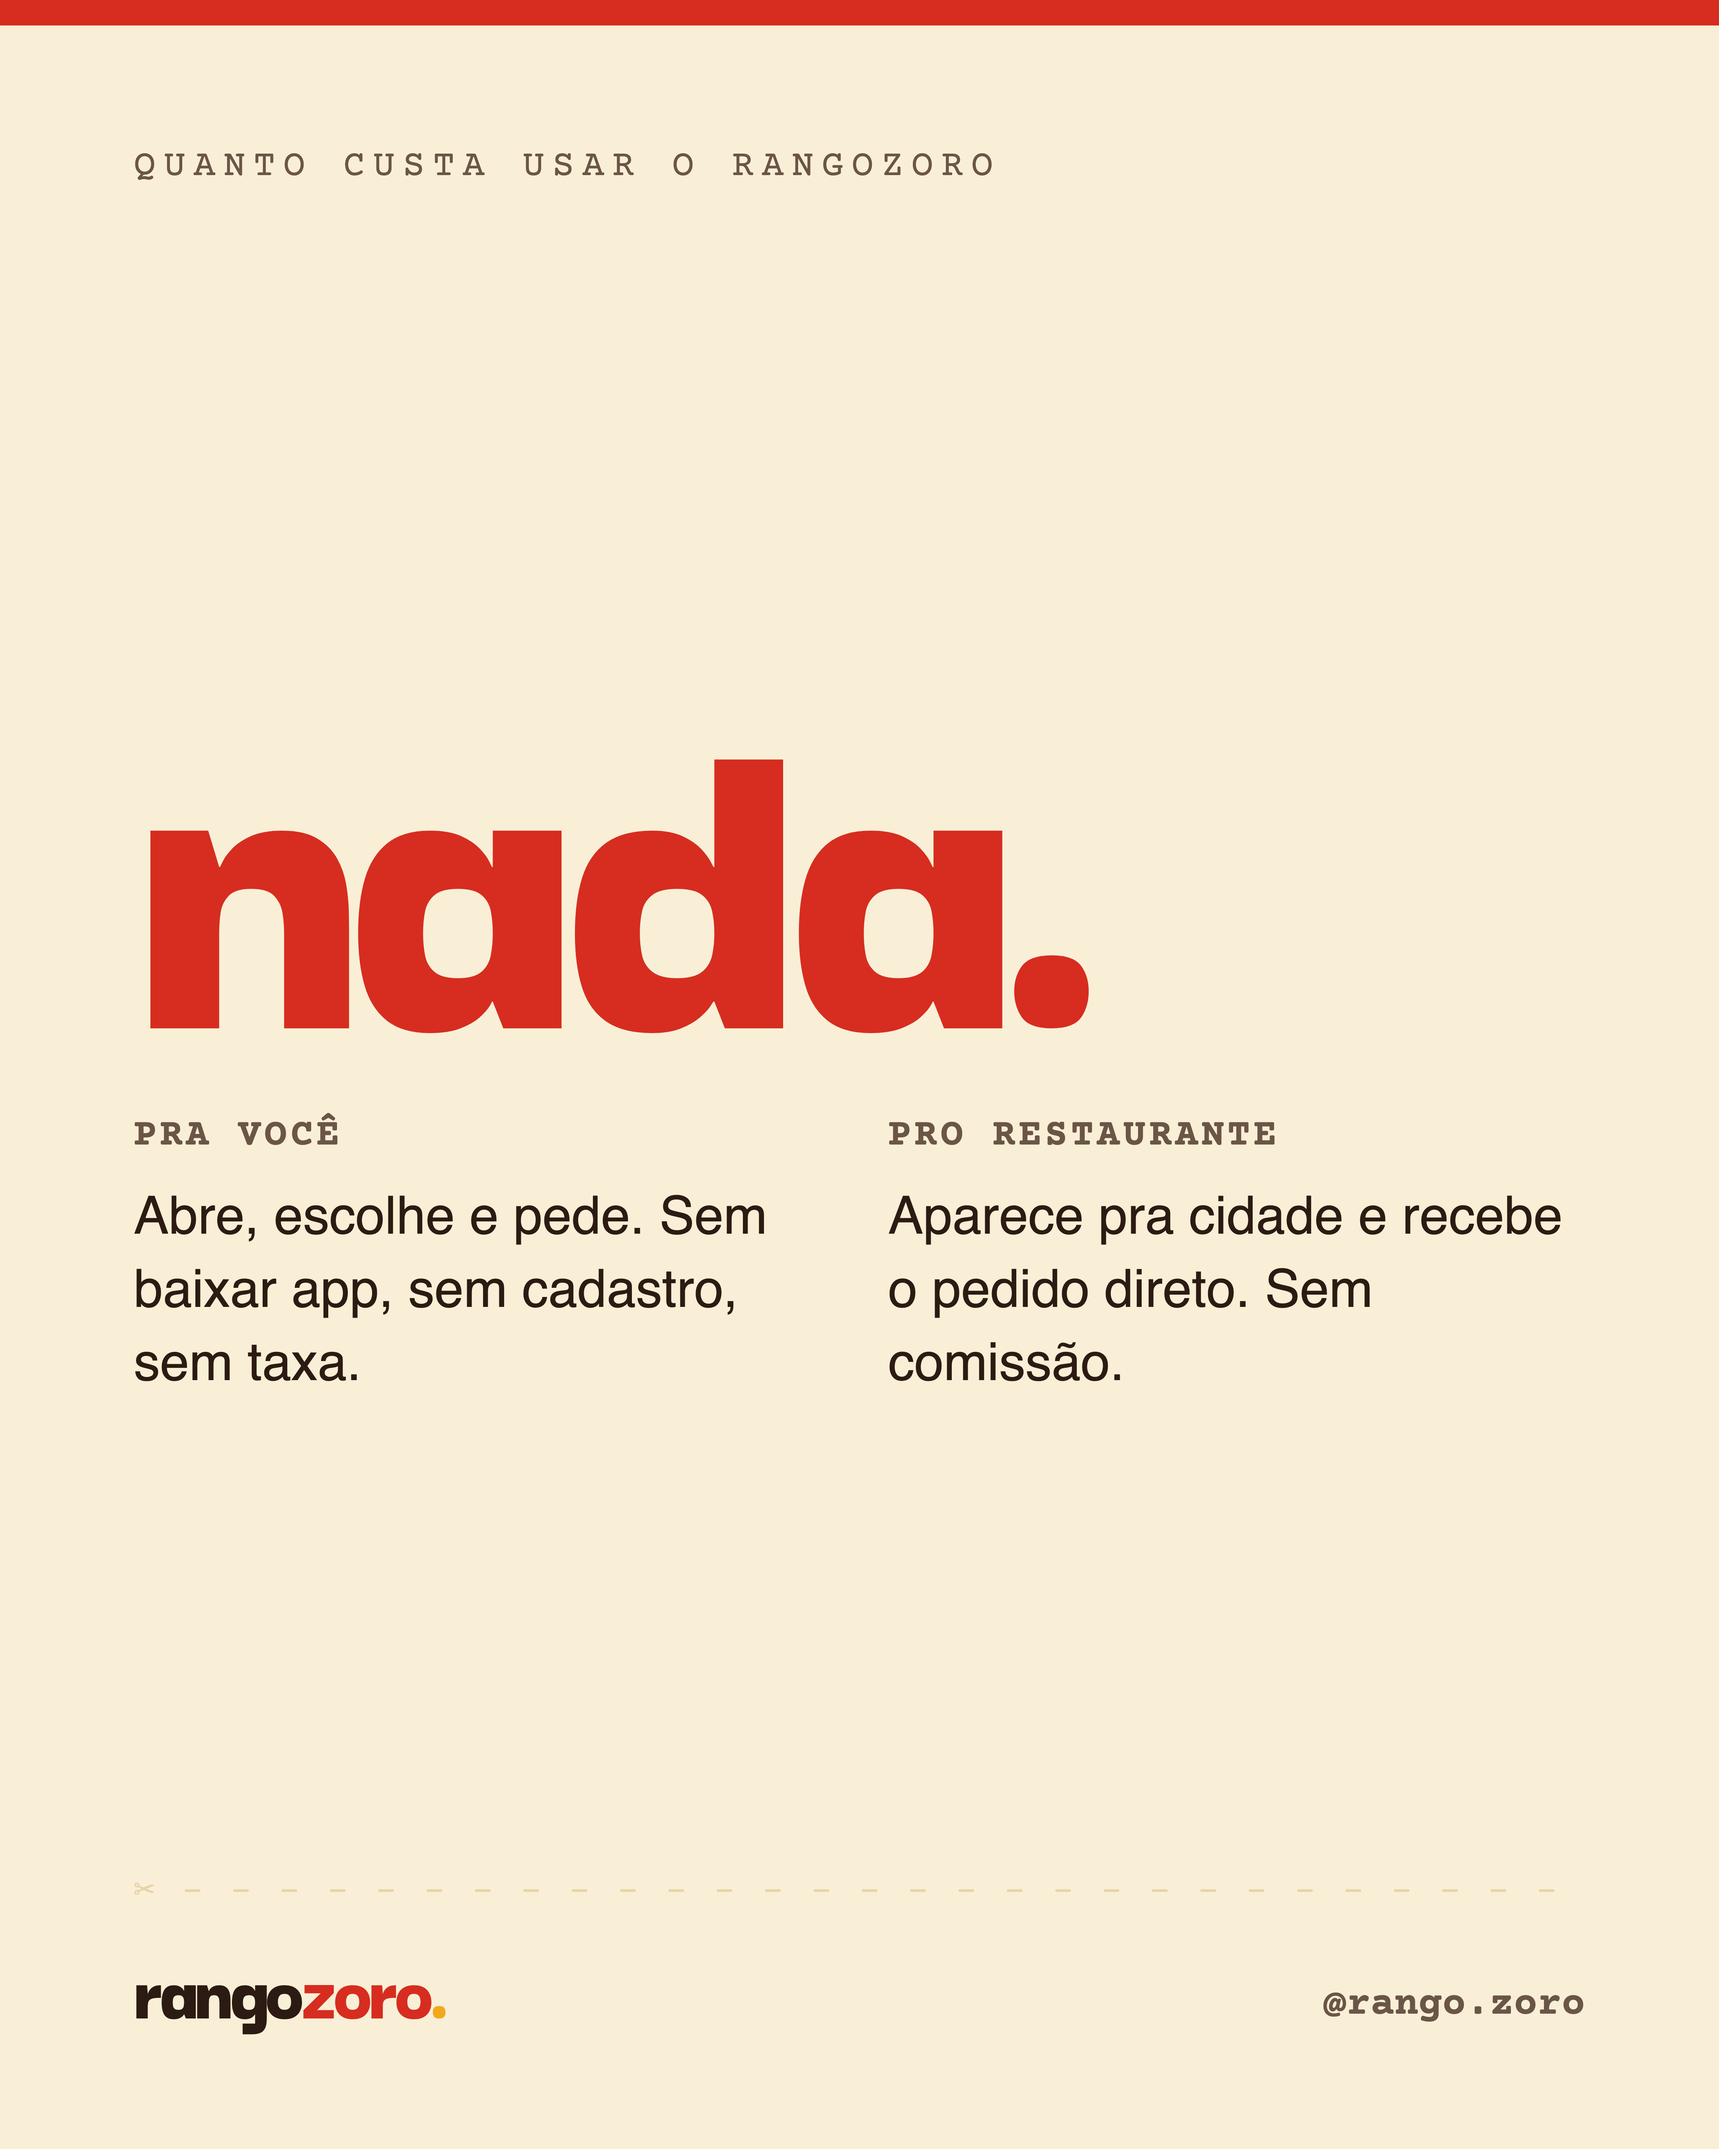
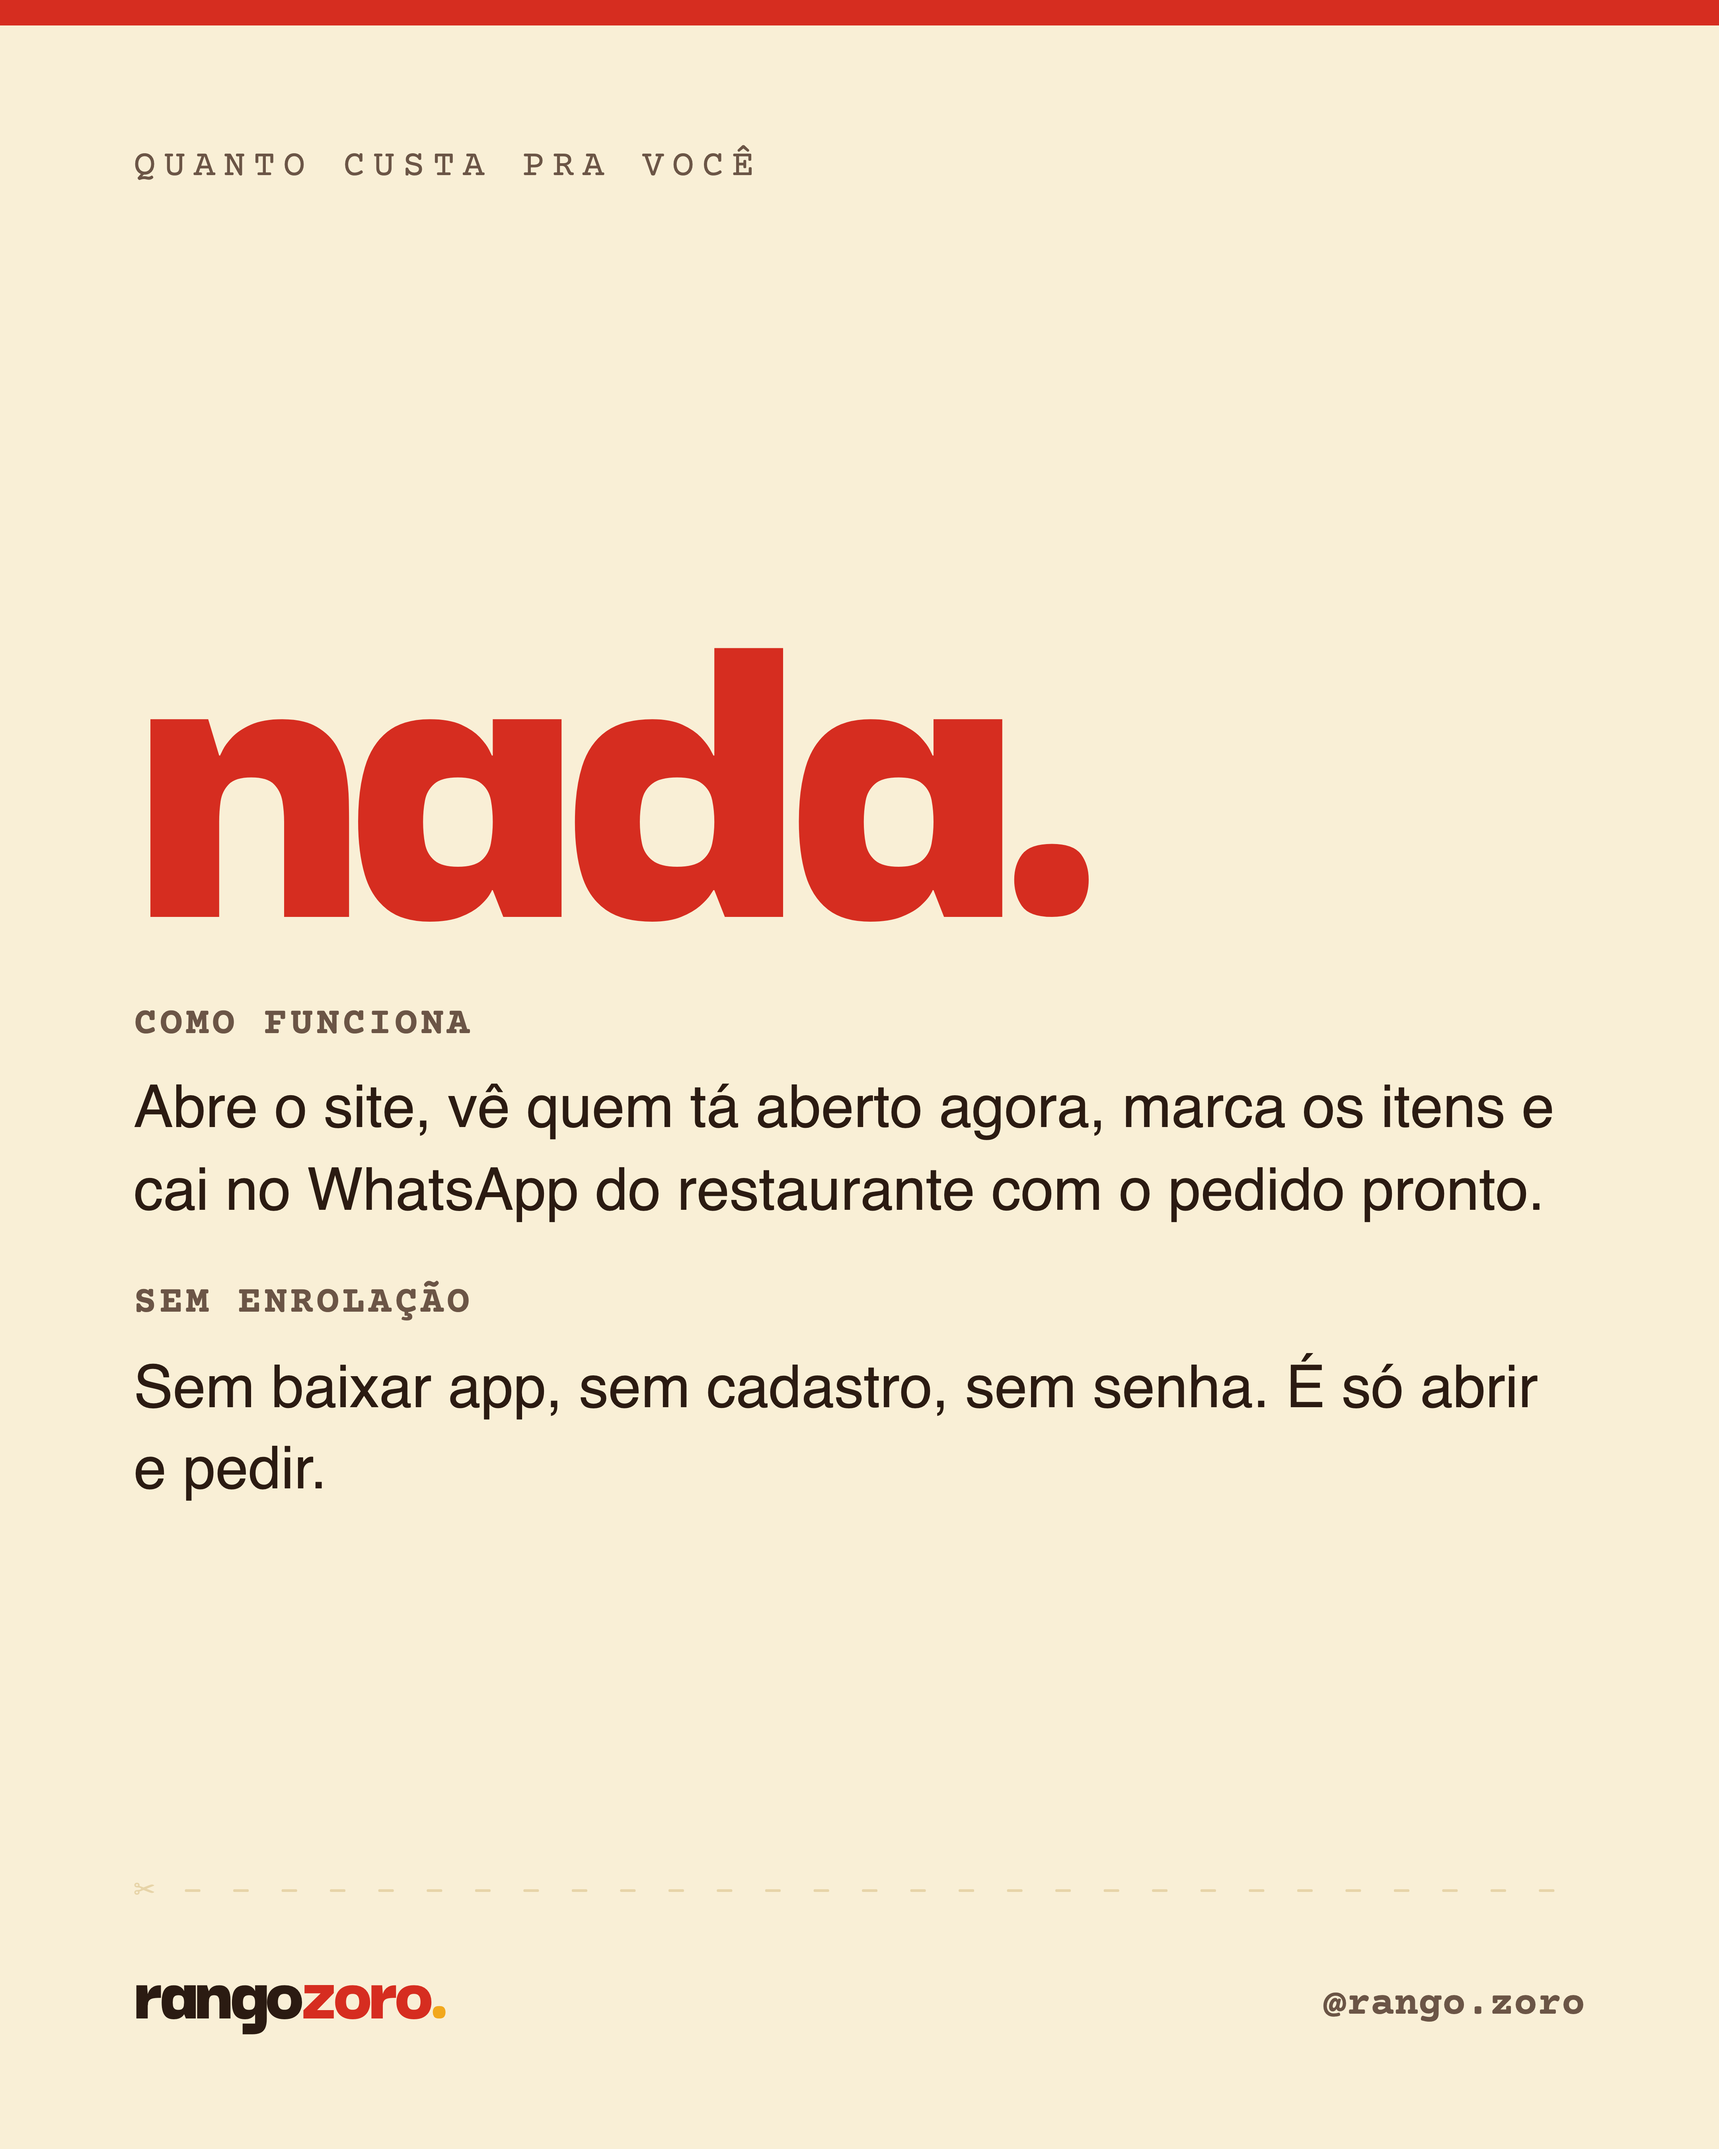
Tira as mencoes de 'sem comissao' e 'de graca pro restaurante'
Monetizacao ainda nao definida. Mantem so o que e fato (nao entrega,
nao processa pagamento, pedido direto com o restaurante) e o lado do
cliente (sem app, sem cadastro). Post 9 do Instagram vira 'quanto
custa pra voce'. og.svg regerado.

Changed region(s): [[0.0625, 0.28, 0.9062, 0.7156], [0.5312, 0.0622, 0.5625, 0.0933], [0.4688, 0.0622, 0.5, 0.0933]]

diff --git a/identidade/instagram/artes.html b/identidade/instagram/artes.html
@@ -98,7 +98,7 @@
   .p9 .eyebrow{margin-bottom:0}
   .p9 .huge{font-family:var(--titulo);font-weight:900;font-size:300px;letter-spacing:-0.04em;
     line-height:0.9;color:var(--brasa);margin:10px 0 30px}
-  .p9 .cols{display:grid;grid-template-columns:1fr 1fr;gap:36px;font-size:33px;line-height:1.4}
+  .p9 .cols{display:grid;grid-template-columns:1fr;gap:28px;font-size:37px;line-height:1.4}
   .p9 .cols b{display:block;font-family:var(--mono);font-size:24px;letter-spacing:2px;
     text-transform:uppercase;color:var(--tinta70);margin-bottom:10px}
 
@@ -140,7 +140,7 @@
       <div class="step"><span class="n">2</span><span class="t">Escolhe o lugar e vai marcando os itens no cardápio</span></div>
       <div class="step"><span class="n">3</span><span class="t">Aperta um botão e cai no WhatsApp do restaurante</span></div>
     </div>
-    <p class="tags">sem app · sem cadastro · sem comissão</p>
+    <p class="tags">sem app · sem cadastro · direto no zap</p>
   </div>
   <div class="perf">✂ - - - - - - - - - - - - - - - - - - - - - - - - - - - - - - - - - - - - - -</div>
   <div class="foot"><span class="wm">rango<span class="z">zoro</span><span class="d">.</span></span><span class="handle">@rango.zoro</span></div>
@@ -153,8 +153,8 @@
   <div class="body">
     <h1>Tem um lugar que faz comida no Zoro?</h1>
     <p class="kinds">restaurante · trailer · marmita · açaí<br>pizza · lanche · salgado · doce</p>
-    <div class="big">coloca no<br>RangoZoro.<br><em>de graça.</em></div>
-    <p class="how">Manda no direct: cardápio (foto serve), horário e teu WhatsApp. O pedido cai direto pra você, sem comissão.</p>
+    <div class="big">coloca no<br>RangoZoro.<br><em>chama no direct.</em></div>
+    <p class="how">Manda o cardápio (foto serve), o horário e teu WhatsApp. O pedido cai direto no teu zap.</p>
   </div>
   <div class="perf">✂ - - - - - - - - - - - - - - - - - - - - - - - - - - - - - - - - - - - - - -</div>
   <div class="foot"><span class="wm">rango<span class="z">zoro</span><span class="d">.</span></span><span class="handle">@rango.zoro</span></div>
@@ -202,7 +202,7 @@
     <h1>É tudo no zap, e é um perrengue.</h1>
     <p class="t">Pra pedir comida no Zoro você fica caçando cardápio no WhatsApp, sem saber quem tá aberto nem quanto custa.</p>
     <p class="t"><b>Tem lugar bom que a cidade inteira nem sabe que existe</b>, porque só é conhecido no bairro.</p>
-    <p class="t">O RangoZoro junta todo mundo numa tela só. De graça pro restaurante, sem taxa pra você.</p>
+    <p class="t">O RangoZoro junta todo mundo numa tela só: quem tá aberto agora e o cardápio com preço.</p>
   </div>
   <div class="perf">✂ - - - - - - - - - - - - - - - - - - - - - - - - - - - - - - - - - - - - - -</div>
   <div class="foot"><span class="wm">rango<span class="z">zoro</span><span class="d">.</span></span><span class="handle">@rango.zoro</span></div>
@@ -237,12 +237,12 @@
 <!-- ============ POST 9 · QUANTO CUSTA ============ -->
 <div class="art post p9" data-name="post-9-quanto-custa">
   <div class="bar"></div>
-  <div class="eyebrow">quanto custa usar o RangoZoro</div>
+  <div class="eyebrow">quanto custa pra você</div>
   <div class="body">
     <div class="huge">nada.</div>
     <div class="cols">
-      <div><b>Pra você</b>Abre, escolhe e pede. Sem baixar app, sem cadastro, sem taxa.</div>
-      <div><b>Pro restaurante</b>Aparece pra cidade e recebe o pedido direto. Sem comissão.</div>
+      <div><b>Como funciona</b>Abre o site, vê quem tá aberto agora, marca os itens e cai no WhatsApp do restaurante com o pedido pronto.</div>
+      <div><b>Sem enrolação</b>Sem baixar app, sem cadastro, sem senha. É só abrir e pedir.</div>
     </div>
   </div>
   <div class="perf">✂ - - - - - - - - - - - - - - - - - - - - - - - - - - - - - - - - - - - - - -</div>

diff --git a/instagram/PLANO.md b/instagram/PLANO.md
@@ -41,10 +41,10 @@ Eles repostam, e aí a rede cresce.
 7. **[Promo]** "{NOME} tá com {promoção} hoje. Corre que é só hoje. Link na bio."
 8. **[Pergunta]** "Qual lugar do Zoro tá faltando aqui no RangoZoro? Manda na caixinha que eu vou atrás."
 9. **[Marmita]** "Segunda de volta à rotina, marmita na conta. O Zoro tem {N} lugares de marmitex no site, com preço e horário. Peça até as 13h."
-10. **[Prova social]** "Semana passada o RangoZoro mandou mais de {N} pessoas direto pro WhatsApp dos restaurantes da cidade. Sem cobrar nada de ninguém. É isso."
+10. **[Prova social]** "Semana passada o RangoZoro mandou mais de {N} pessoas direto pro WhatsApp dos restaurantes da cidade. Bora crescer isso."
 
 ## Métrica que importa
 
 Cliques no botão "Pedir no WhatsApp" (dá pra medir com um contador simples no site depois).
-É esse número que você mostra pro dono do restaurante quando for falar de plano pago:
-"esse mês te mandei X clientes".
+É esse número que mostra se a ideia tá funcionando e o que dizer pro dono do restaurante:
+"esse mês o site te mandou X clientes".

diff --git a/IDENTIDADE.md b/IDENTIDADE.md
@@ -78,5 +78,5 @@ depois de mudar cor: `node identidade/logos/gerar-marca.mjs` (instruções no to
 - Nada de travessão no meio da frase. Usa vírgula, ponto ou parênteses.
 - Vazio e erro dão direção, sem drama: "Cardápio ainda não catalogado. Chama no WhatsApp
   que eles te passam tudo."
-- Deixar claro o modelo, sempre: "A gente não entrega nem cobra comissão. O pedido é
+- Deixar claro o modelo, sempre: "A gente não entrega nem processa pagamento. O pedido é
   direto com o restaurante."

diff --git a/README.md b/README.md
@@ -2,7 +2,7 @@
 
 Guia de todo lugar que faz e entrega comida em **Conceição dos Ouros, MG** (a cidade que
 todo mundo chama de **Zoro**). Não é app de entrega: mostra quem está aberto agora e manda
-o pedido direto pro WhatsApp do restaurante. Sem comissão, sem intermediar pagamento.
+o pedido direto pro WhatsApp do restaurante. Não processa pagamento nem entra no meio do pedido.
 
 Site: **https://viniciuscastro999.github.io/Rango-Zoro/**
 
